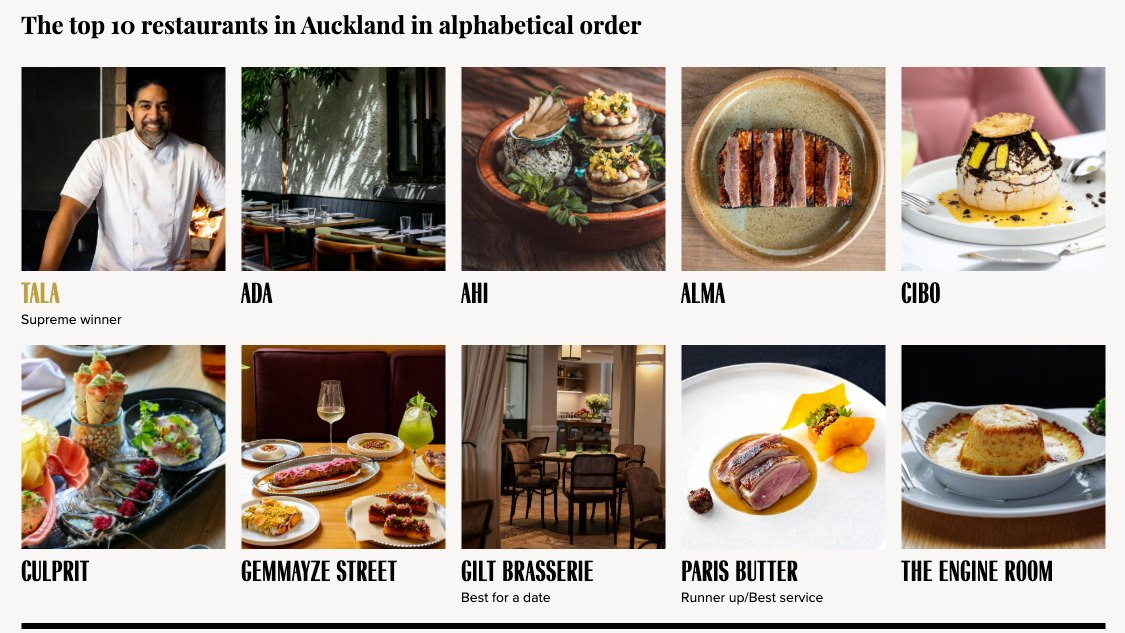
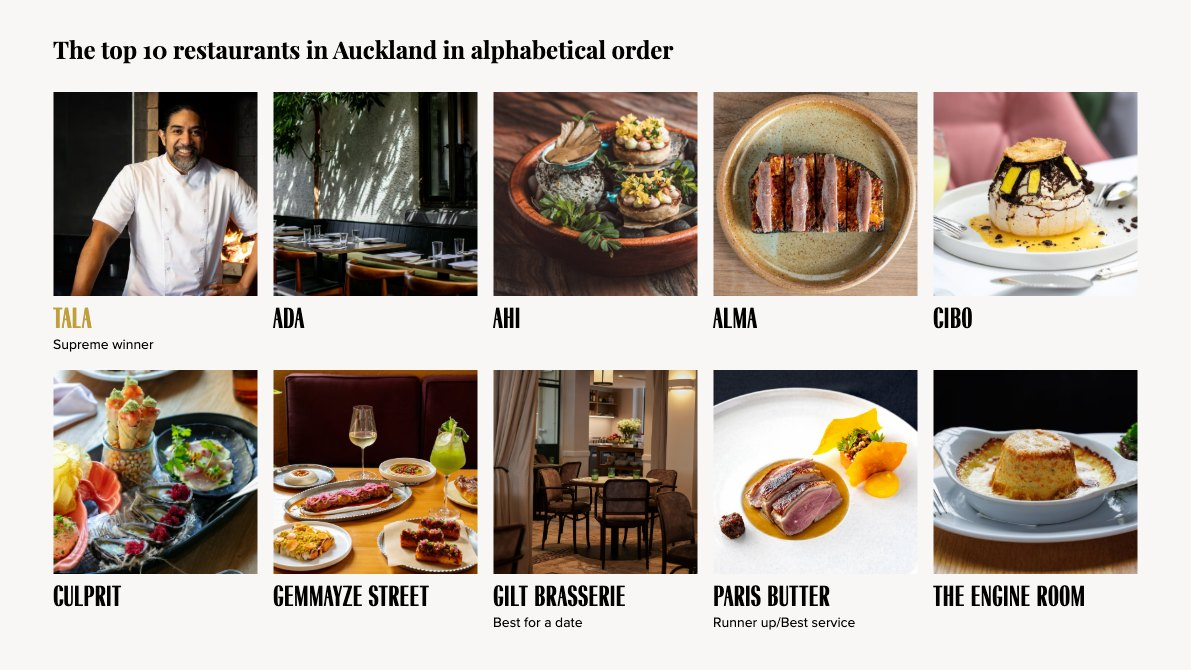
Cut-out portrait in the masthead; wobble seam inset; cleaner Viva crop

diff --git a/index.html b/index.html
@@ -7,7 +7,7 @@
 <title>
    Paul Slater | Finding My Story
   </title>
-<link href="assets/style.css?v=20261002d" rel="stylesheet"/>
+<link href="assets/style.css?v=20261003" rel="stylesheet"/>
 <!-- Draft chapters (class="draft-chapter") are hidden on the live site until
      they're ready. They show when viewing locally, or live with ?draft on the
      end of the address (e.g. slatesdesign.com/?draft). -->
@@ -97,7 +97,7 @@
 <g transform="translate(2530.9 44.8)"><g class="cog ccw" style="animation-duration:5.33s"><use href="#cog-8-0" transform="rotate(74.11)"/></g></g>
 <g transform="translate(2629.6 132.0)"><g class="cog ccw" style="animation-duration:9.33s"><use href="#cog-14-0" transform="rotate(175.04)"/></g></g>
 </svg>
-<img alt="Paul Slater" class="hero-avatar" src="assets/images/mugshot.jpg"/>
+<img alt="Paul Slater" class="hero-avatar hero-cutout" src="assets/images/paul-cutout.webp"/>
 <div class="hero-text">
 <h1>
        Paul Slater
@@ -215,7 +215,7 @@
 <!-- Supporting projects: two-up on desktop, stacked on mobile -->
 <div class="work-grid">
 <article class="work-item">
-<div class="work-media">
+<div class="work-media work-media-inset">
 <video class="work-loop" muted loop playsinline preload="none" aria-label="Animation of a ‘wobble’ seam delivery: the ball is bowled with the fingers spread either side of the seam, so the seam wobbles slightly on its way down.">
 <source src="https://insights.nzherald.co.nz/data/media/67a3e171ebe3-Comp-1_1.mp4" type="video/mp4"/>
 </video>
@@ -228,7 +228,7 @@
 </article>
 <article class="work-item">
 <a class="work-media work-media-top" href="https://www.nzherald.co.nz/viva/food-drink/the-viva-top-50-auckland-restaurants-2025/premium/CYNLC3WLTJFPLMJL3GXCHBHXQQ/" target="_blank" rel="noopener noreferrer">
-<img src="assets/work/viva-top-50.jpg?v=2" alt="The Viva Top 50 interactive: a grid of restaurant photos, with the top 10 Auckland restaurants listed alphabetically and Tala marked as supreme winner." loading="lazy"/>
+<img src="assets/work/viva-top-50.jpg?v=3" alt="The Viva Top 50 interactive: a grid of restaurant photos, with the top 10 Auckland restaurants listed alphabetically and Tala marked as supreme winner." loading="lazy"/>
 </a>
 <div class="work-caption">
 <p class="work-tag">Interactive design · Food</p>
@@ -605,9 +605,9 @@ Whether I’m working with oils, designing an interactive experience or building
 </section>
 </section>
 </div>
-<script src="assets/script.js?v=20261002d">
+<script src="assets/script.js?v=20261003">
 </script>
-<script src="assets/three.js?v=20261002d" type="module">
+<script src="assets/three.js?v=20261003" type="module">
 </script>
 </body>
 </html>

diff --git a/cv.html b/cv.html
@@ -4,7 +4,7 @@
     <meta charset="UTF-8">
     <meta name="viewport" content="width=device-width, initial-scale=1.0">
     <title>Paul Slater | CV</title>
-    <link rel="stylesheet" href="assets/style.css?v=20261002d">
+    <link rel="stylesheet" href="assets/style.css?v=20261003">
     <link rel="icon" href="favicon.ico" sizes="any">
     <link rel="icon" type="image/svg+xml" href="assets/icons/favicon.svg">
     <link rel="apple-touch-icon" href="assets/icons/apple-touch-icon.png">
@@ -74,9 +74,9 @@
 <g transform="translate(2629.6 132.0)"><g class="cog ccw" style="animation-duration:9.33s"><use href="#cog-14-0" transform="rotate(175.04)"/></g></g>
 </svg>
 
-    <img src="assets/images/mugshot.jpg"
+    <img src="assets/images/paul-cutout.webp"
          alt="Paul Slater"
-         class="hero-avatar">
+         class="hero-avatar hero-cutout">
 
     <div class="hero-text">
 
@@ -420,7 +420,7 @@ It wasn't an easy decision, but careers are shaped as much by the choices you do
 <!-- Shared site script: handles the accordion and the header typewriter.
      It types #thoughts on the homepage and #jobTitles here — no page-specific
      script needed. -->
-<script src="assets/script.js?v=20261002d"></script>
+<script src="assets/script.js?v=20261003"></script>
 
 </body>
 </html>

diff --git a/assets/style.css b/assets/style.css
@@ -1600,3 +1600,32 @@ a.work-media:hover img{
         padding-top:12px;
     }
 }
+
+/* ---- Cut-out portrait in the masthead ----
+   Replaces the round avatar. The cut-out sits on the bottom edge of the grey
+   cog band, with the top of the head almost reaching the band's top edge.
+   Negative margins let it fill the band's padding without making the band
+   any taller (it still takes up the old avatar's height in the layout). */
+.hero-avatar.hero-cutout{
+    width:auto;
+    height:145px;               /* band: 28px + 95px + 28px, less a 6px gap at the top */
+    margin:-22px 0 -28px;
+    border:0;
+    border-radius:0;
+    object-fit:contain;
+    align-self:flex-end;
+    flex-shrink:0;
+}
+
+@media (max-width:700px){
+    .hero-avatar.hero-cutout{
+        height:86px;            /* band: 12.8px + 66px + 12.8px, less a 6px gap */
+        margin:-7px 0 -12.8px;
+    }
+}
+
+/* Wobble seam: inset slightly so its heading and the H logo aren't tight
+   against the frame edge. */
+.work-grid .work-media-inset video{
+    padding:4%;
+}

diff --git a/contact.html b/contact.html
@@ -9,7 +9,7 @@
 
     <title>Paul Slater | Contact</title>
 
-    <link rel="stylesheet" href="assets/style.css?v=20261002d">
+    <link rel="stylesheet" href="assets/style.css?v=20261003">
     <link rel="icon" href="favicon.ico" sizes="any">
     <link rel="icon" type="image/svg+xml" href="assets/icons/favicon.svg">
     <link rel="apple-touch-icon" href="assets/icons/apple-touch-icon.png">
@@ -83,9 +83,9 @@
 <g transform="translate(2629.6 132.0)"><g class="cog ccw" style="animation-duration:9.33s"><use href="#cog-14-0" transform="rotate(175.04)"/></g></g>
 </svg>
 
-            <img src="assets/images/mugshot.jpg"
+            <img src="assets/images/paul-cutout.webp"
                  alt="Paul Slater"
-                 class="hero-avatar">
+                 class="hero-avatar hero-cutout">
 
             <div class="hero-text">
 
@@ -161,7 +161,7 @@
 
 </div>
 
-<script src="assets/script.js?v=20261002d"></script>
+<script src="assets/script.js?v=20261003"></script>
 
 </body>
 </html>
